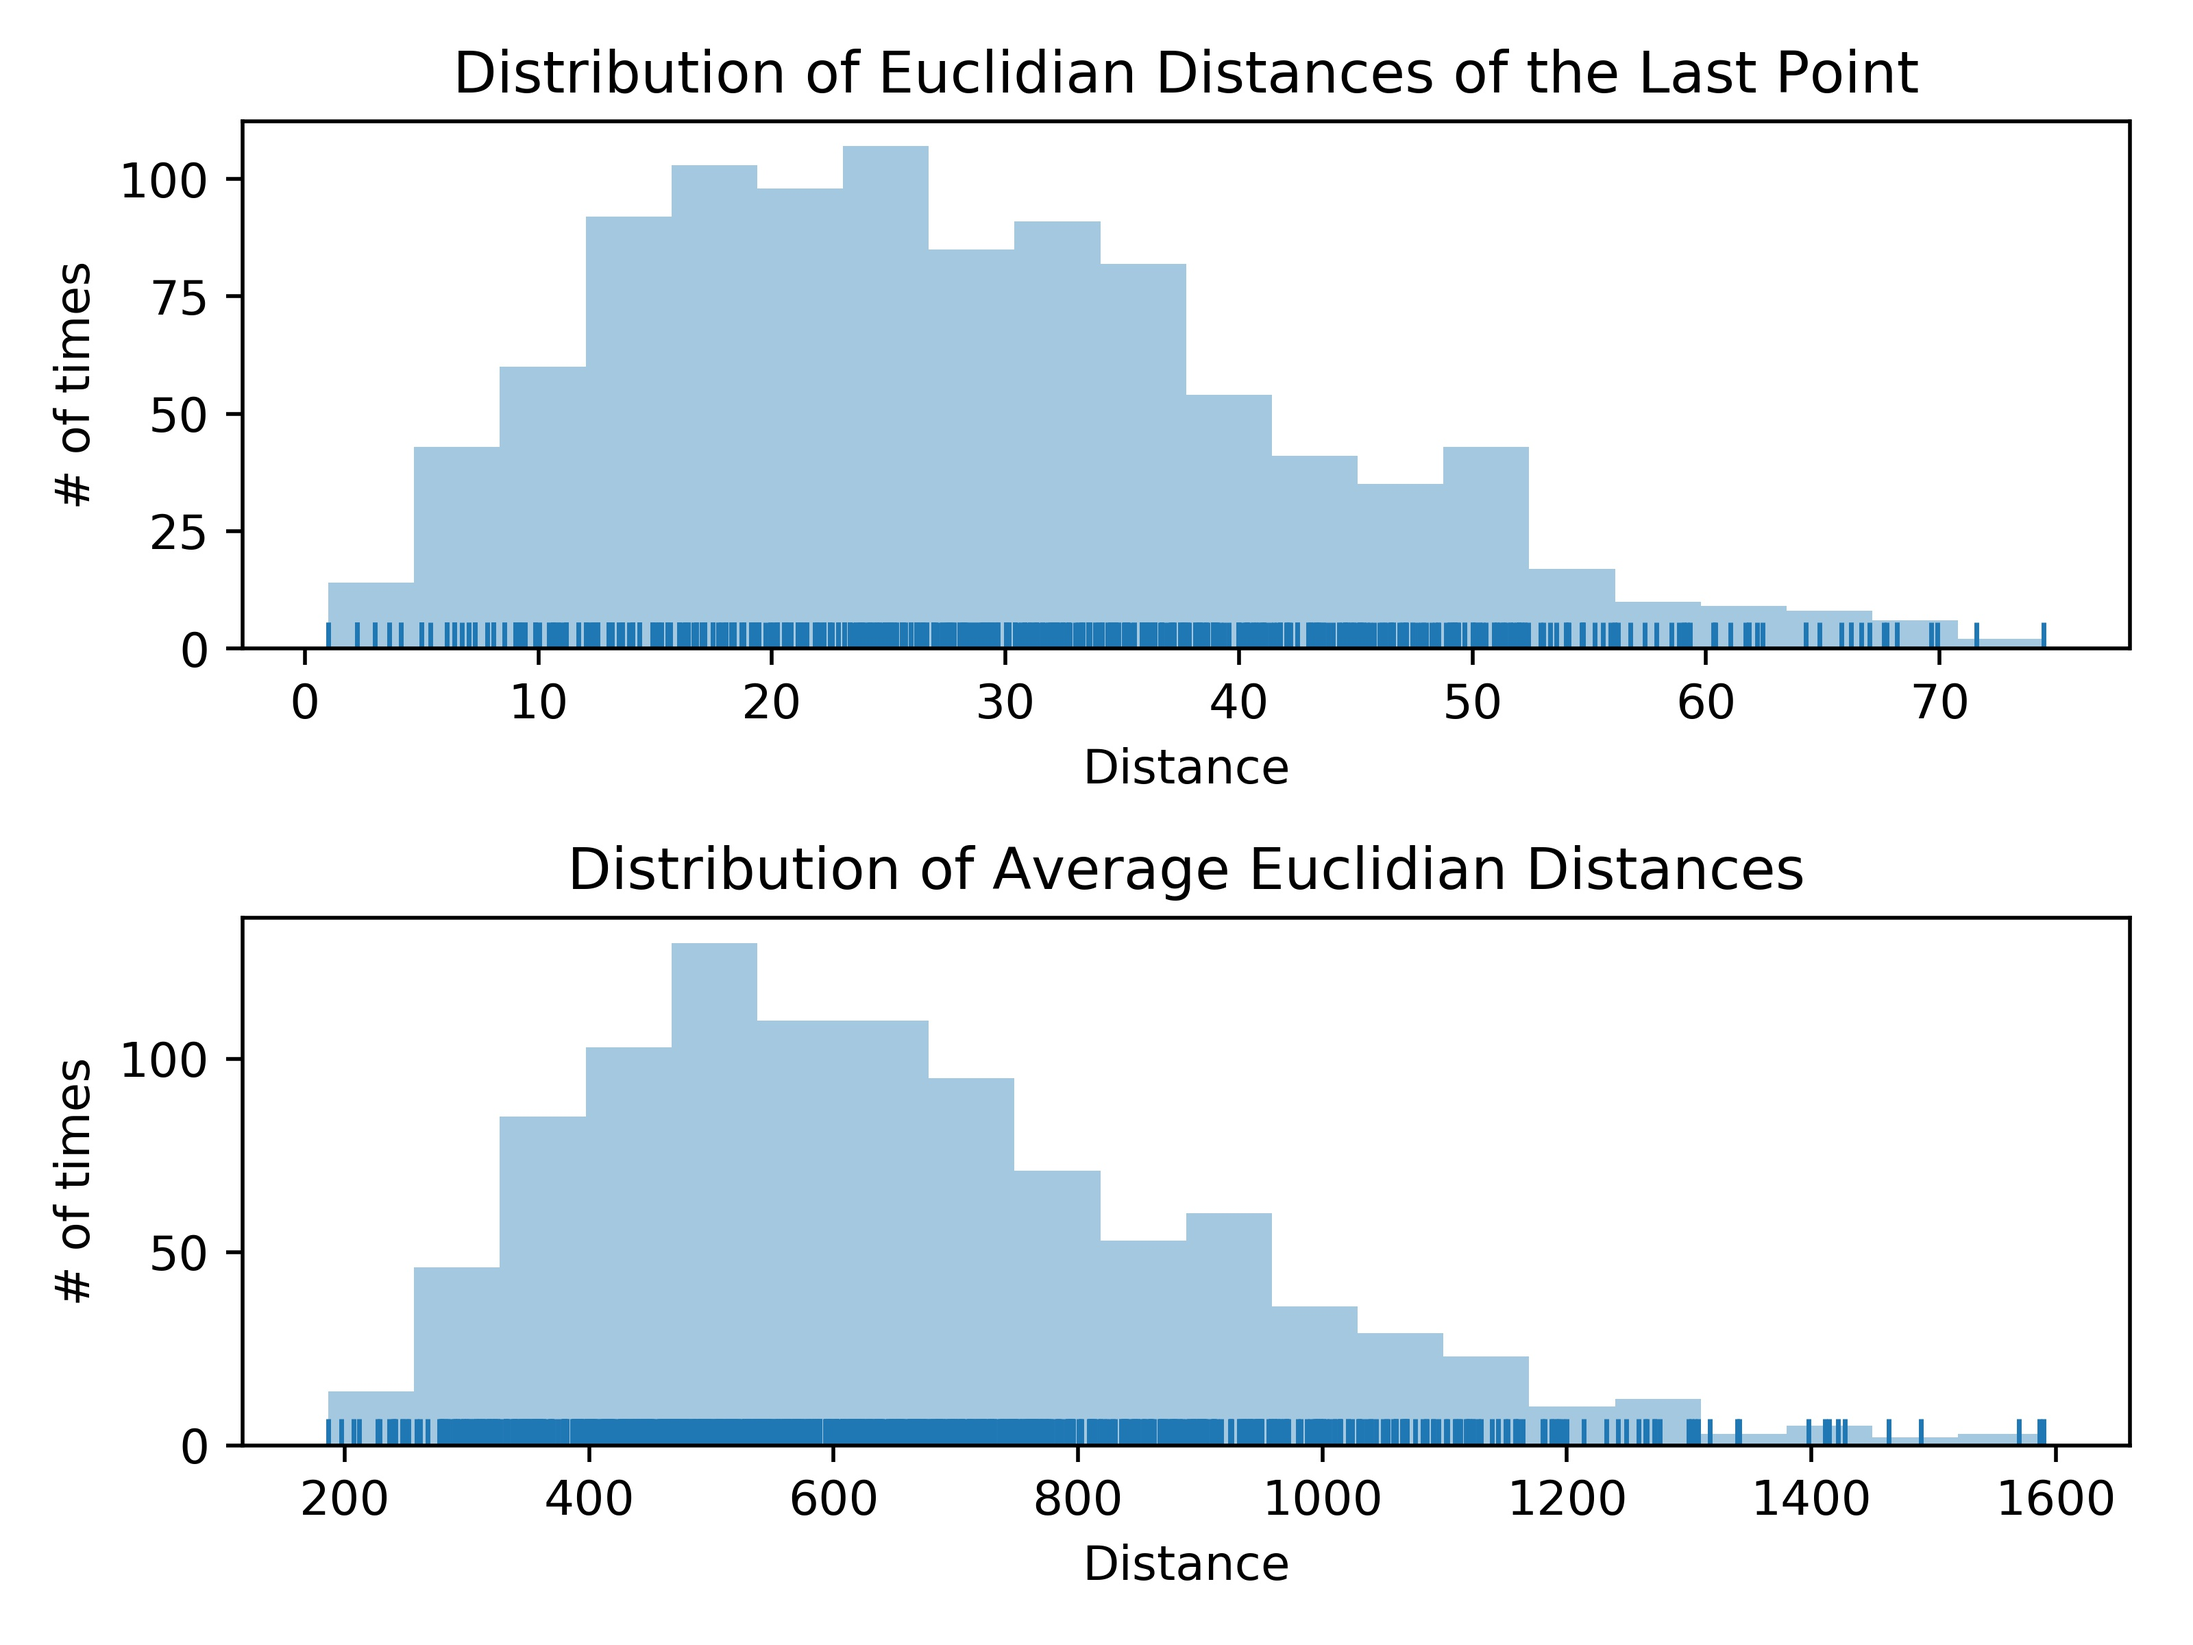
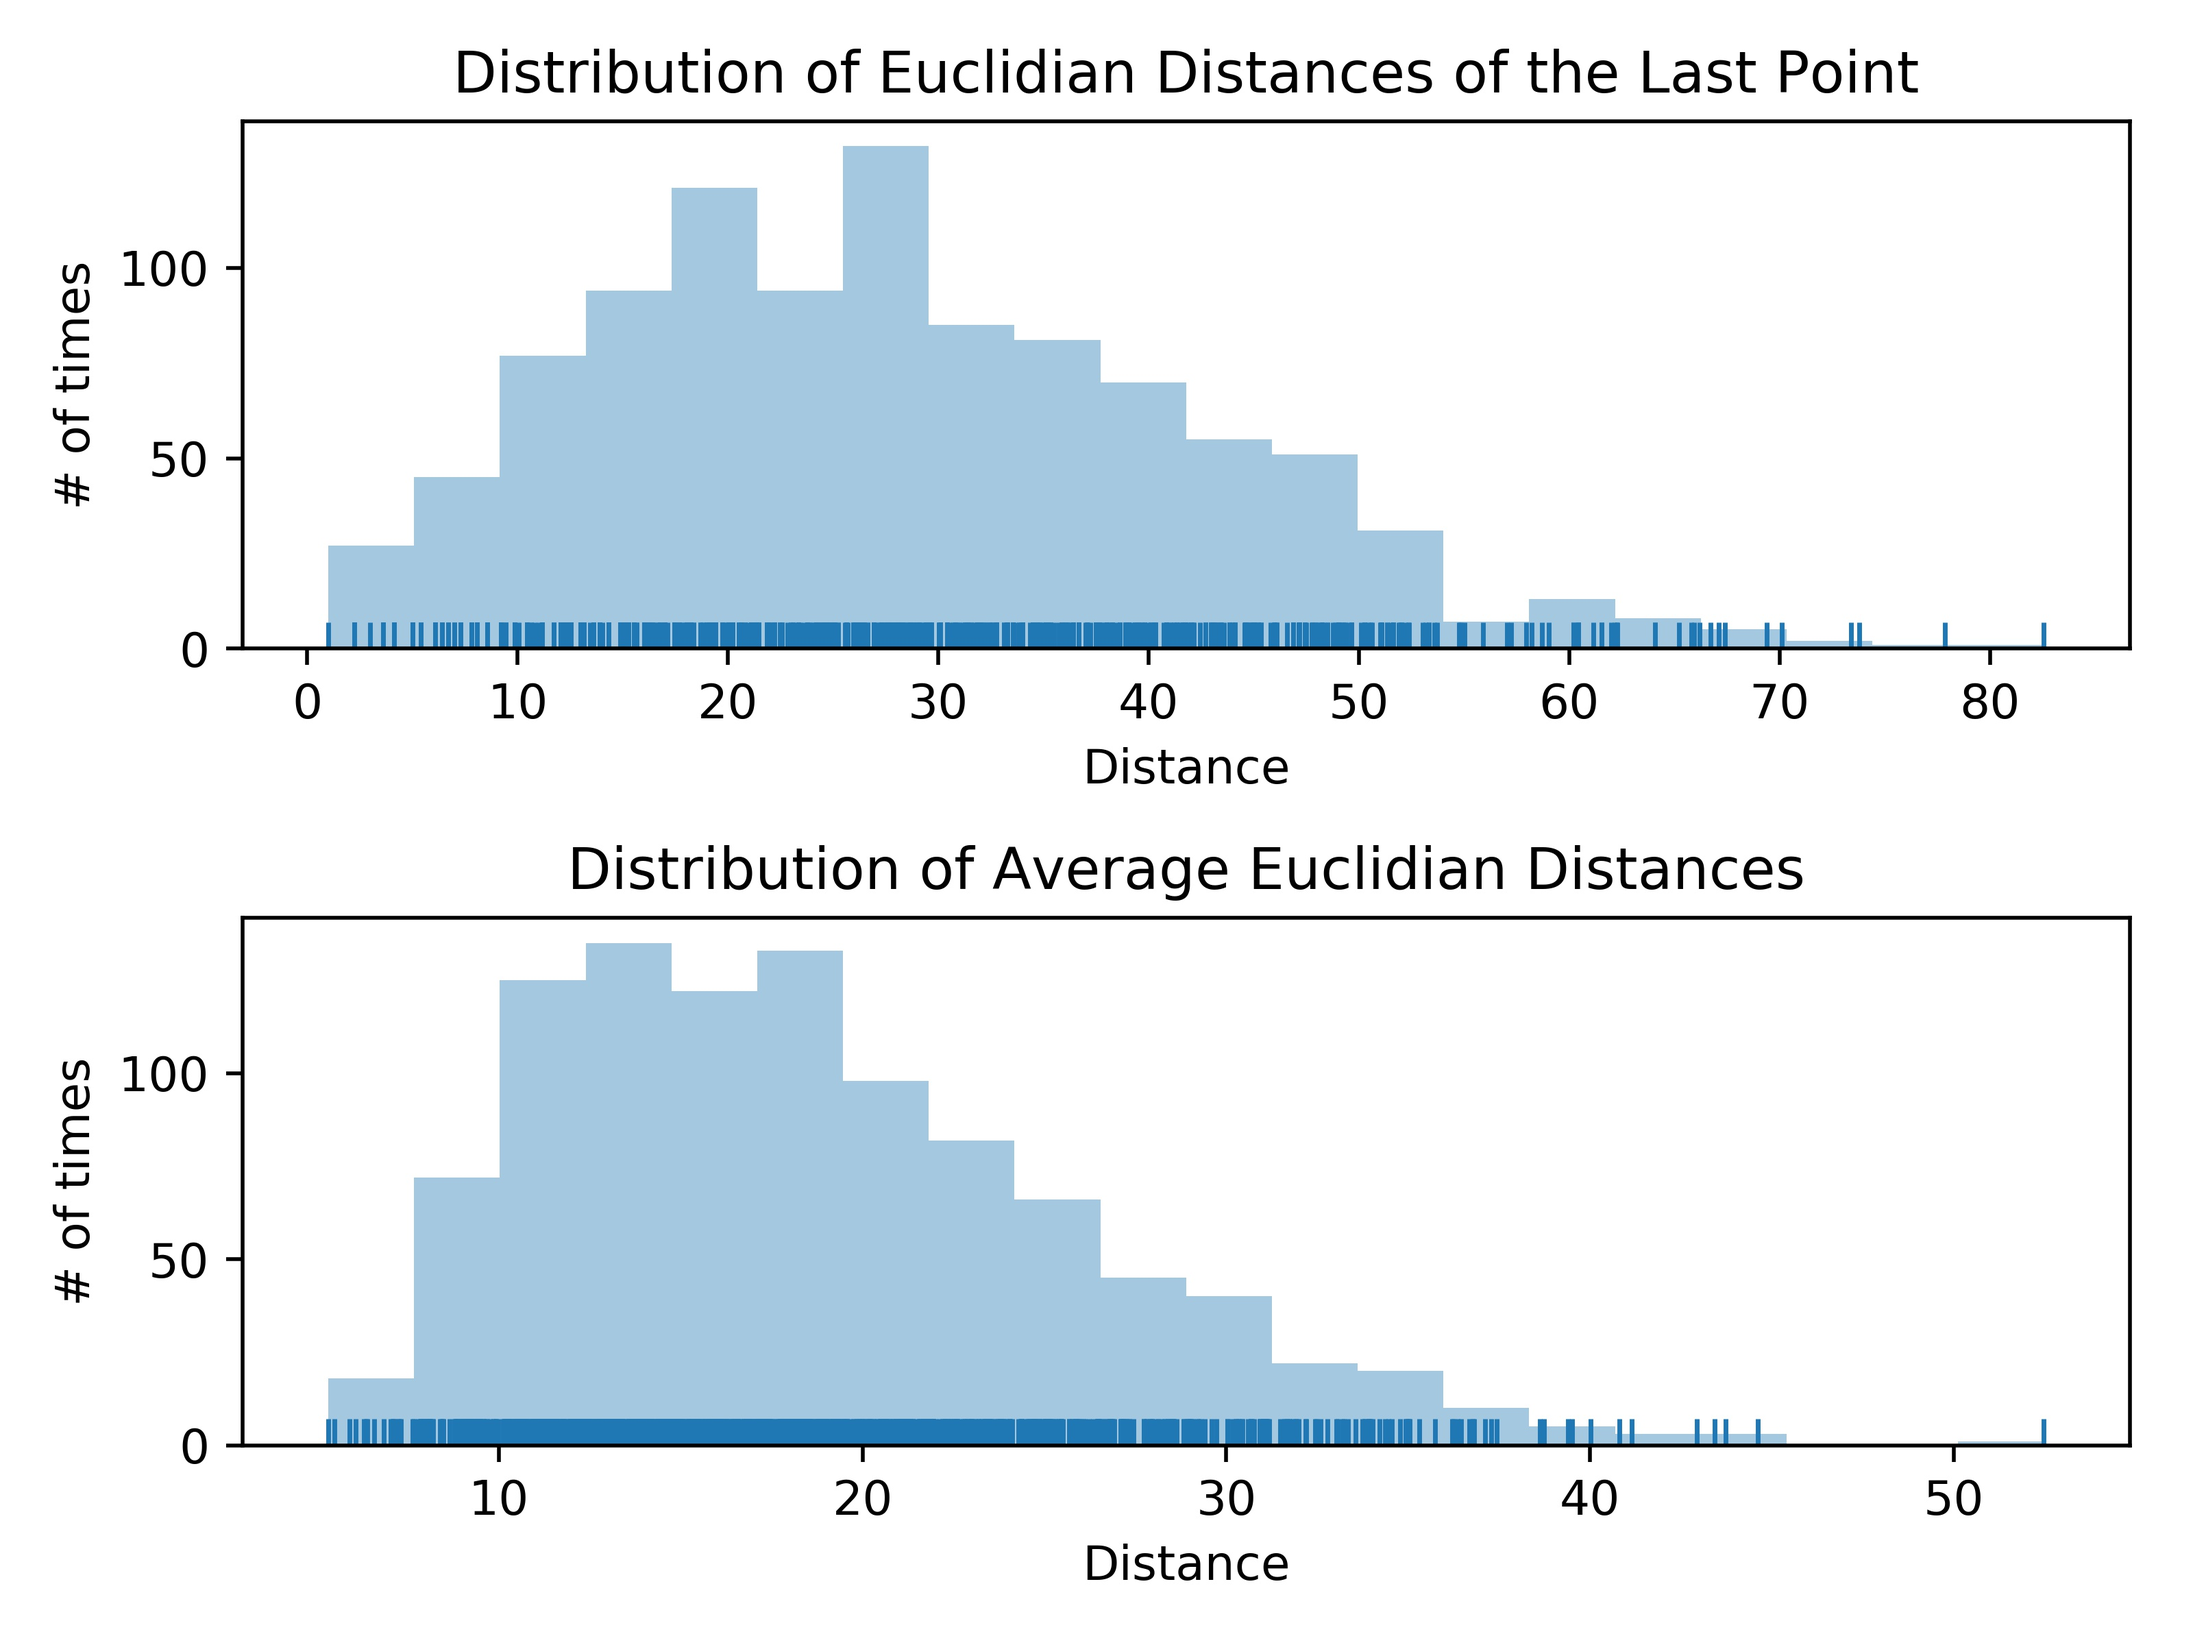
b4 multiprocess

diff --git a/question2b.py b/question2b.py
@@ -58,14 +58,15 @@ if __name__ == "__main__":
     sns.distplot(distributionAverageDist, bins=10, kde=False, rug=True, ax=axes[1])
     sns.distplot(distributionLastPoint[fraction==1], bins=10, kde=False, rug=True, ax=axes[2])
     sns.distplot(distributionAverageDist[fraction==1], bins=10, kde=False, rug=True, ax=axes[3])
-    axes[0].set_title('Distribution of Euclidian Distances \n to the Last Point to the Origin')
-    axes[1].set_title('Distribution of Average Euclindean Distance to the Centroid')
-    axes[2].set_title('Distribution of Euclidian Distances \n to the Last Point to the Origin for Self-Avoiding Walks')
-    axes[3].set_title('Distribution of Average Euclidian Distance \n to the Last point to the origin for Self-Avoiding Walks')
+    axes[0].set_title('Distribution of Euclidian Distances \n to the Last Point to the Origin', fontsize=20)
+    axes[1].set_title('Distribution of Average Euclindean Distance to the Centroid', fontsize=20)
+    axes[2].set_title('Distribution of Euclidian Distances \n to the Last Point to the Origin for Self-Avoiding Walks', fontsize=20)
+    axes[3].set_title('Distribution of Average Euclidian Distance \n to the Last point to the origin for Self-Avoiding Walks', fontsize=20)
     axes[0].set(xlabel='Distance', ylabel='# of times')
     axes[1].set(xlabel='Distance', ylabel='# of times')
     axes[2].set(xlabel='Distance', ylabel='# of times')
     axes[3].set(xlabel='Distance', ylabel='# of times')
+    f.set_size_inches(12, 15)
     plt.tight_layout()
     plt.savefig('question2b.jpg', dpi=500)
     plt.show()

diff --git a/parallelTest.py b/parallelTest.py
@@ -1,2 +1,54 @@
-import multiprocessing as mp
-print("Number of processors: ", mp.cpu_count())
+import multiprocessing
+import time
+
+start = time.perf_counter()
+
+
+def do(seconds):
+    print('Starting')
+    time.sleep(seconds)
+    print('Done')
+
+processes = []
+for _ in range(10):
+    p = multiprocessing.Process(target=do, args=[2])
+    p.start()
+    processes.append(p)
+
+for process in processes:
+    process.join()
+
+# p1 = multiprocessing.Process(target=do)
+# p2 = multiprocessing.Process(target=do)
+#
+# p1.start()
+# p2.start()
+#
+# p1.join()
+# p2.join()
+
+end = time.perf_counter()
+
+print('Total time: ', end - start)
+
+import concurrent.futures
+import time
+
+start = time.perf_counter()
+
+def do(seconds):
+    print('Starting')
+    time.sleep(seconds)
+    return 'done sleep'
+
+with concurrent.futures.ProcessPoolExecutor() as executor:
+    # f1 = executor.submit(do, 1)
+    # f2 = executor.submit(do, 1)
+    results = [executor.submit(do, 1) for _ in range(50)]
+    for f in concurrent.futures.as_completed(results):
+        print(f.result())
+
+
+
+end = time.perf_counter()
+print(f'time to run: {end-start}')

diff --git a/question2a.py b/question2a.py
@@ -66,11 +66,12 @@ if __name__ == "__main__":
     axes[0].set_title('Distribution of Walk Lengths for 2000 Walks with Sticky Walls', fontsize=20)
     axes[1].set_title('Distribution of Euclindean Distance for Non Sticky fraction', fontsize=20)
     axes[2].set_title('Distribution of Average Distances \n to the Centroid for 2000 walks for Non-Sticky Fraction', fontsize=20)
-    axes[0].set(xlabel='Distance', fontsize=18)
+    axes[0].set(xlabel='Distance', ylabel='# of times')
     axes[1].set(xlabel='Distance', ylabel='# of times')
     axes[2].set(xlabel='Distance', ylabel='# of times')
-    plt.tight_layout()
+
     f.set_size_inches(12, 15)
+    plt.tight_layout()
     plt.savefig('question2a.jpg', dpi=500)
     plt.show()
 

diff --git a/question1.py b/question1.py
@@ -3,6 +3,9 @@ import numpy as np
 import seaborn as sns
 import matplotlib.pyplot as plt
 from scipy import ndimage
+from sklearn.metrics.pairwise import euclidean_distances
+import time
+import concurrent.futures
 
 
 class RandomWalk:
@@ -39,7 +42,7 @@ class RandomWalk:
 
 
     def averageEuclidianDistance(self, start=(0,0)):
-        return np.mean(np.linalg.norm(self.positions- [0,0]))
+        return np.mean(euclidean_distances(self.positions,[[0,0]]))
 
 
     def centroid(self):
